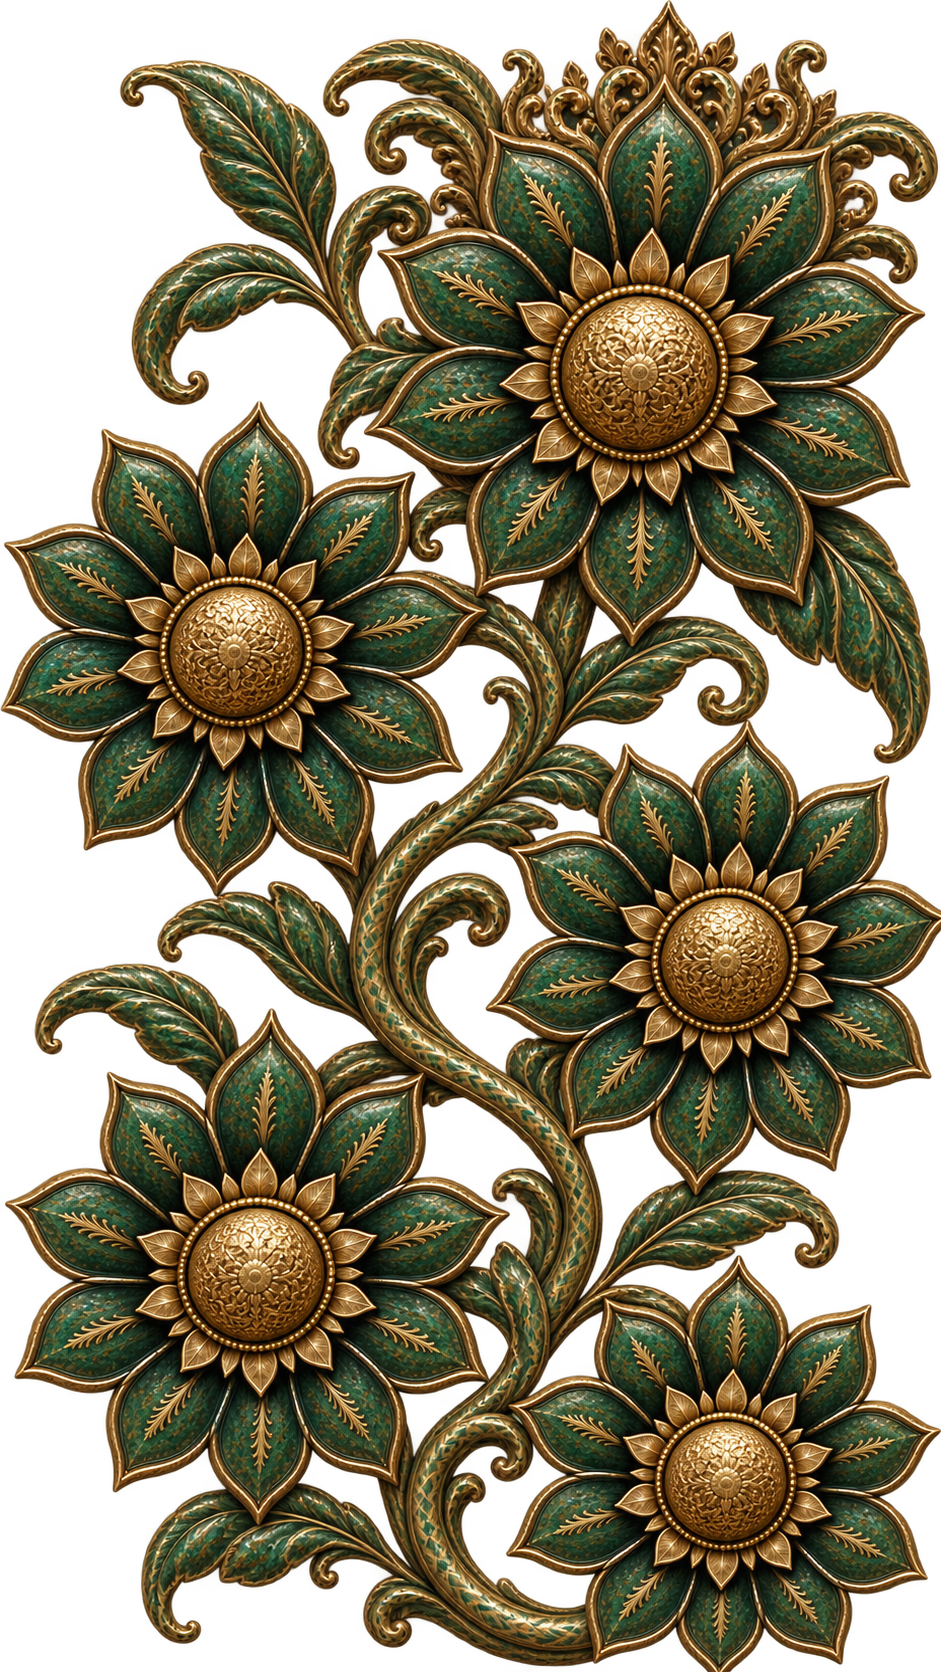
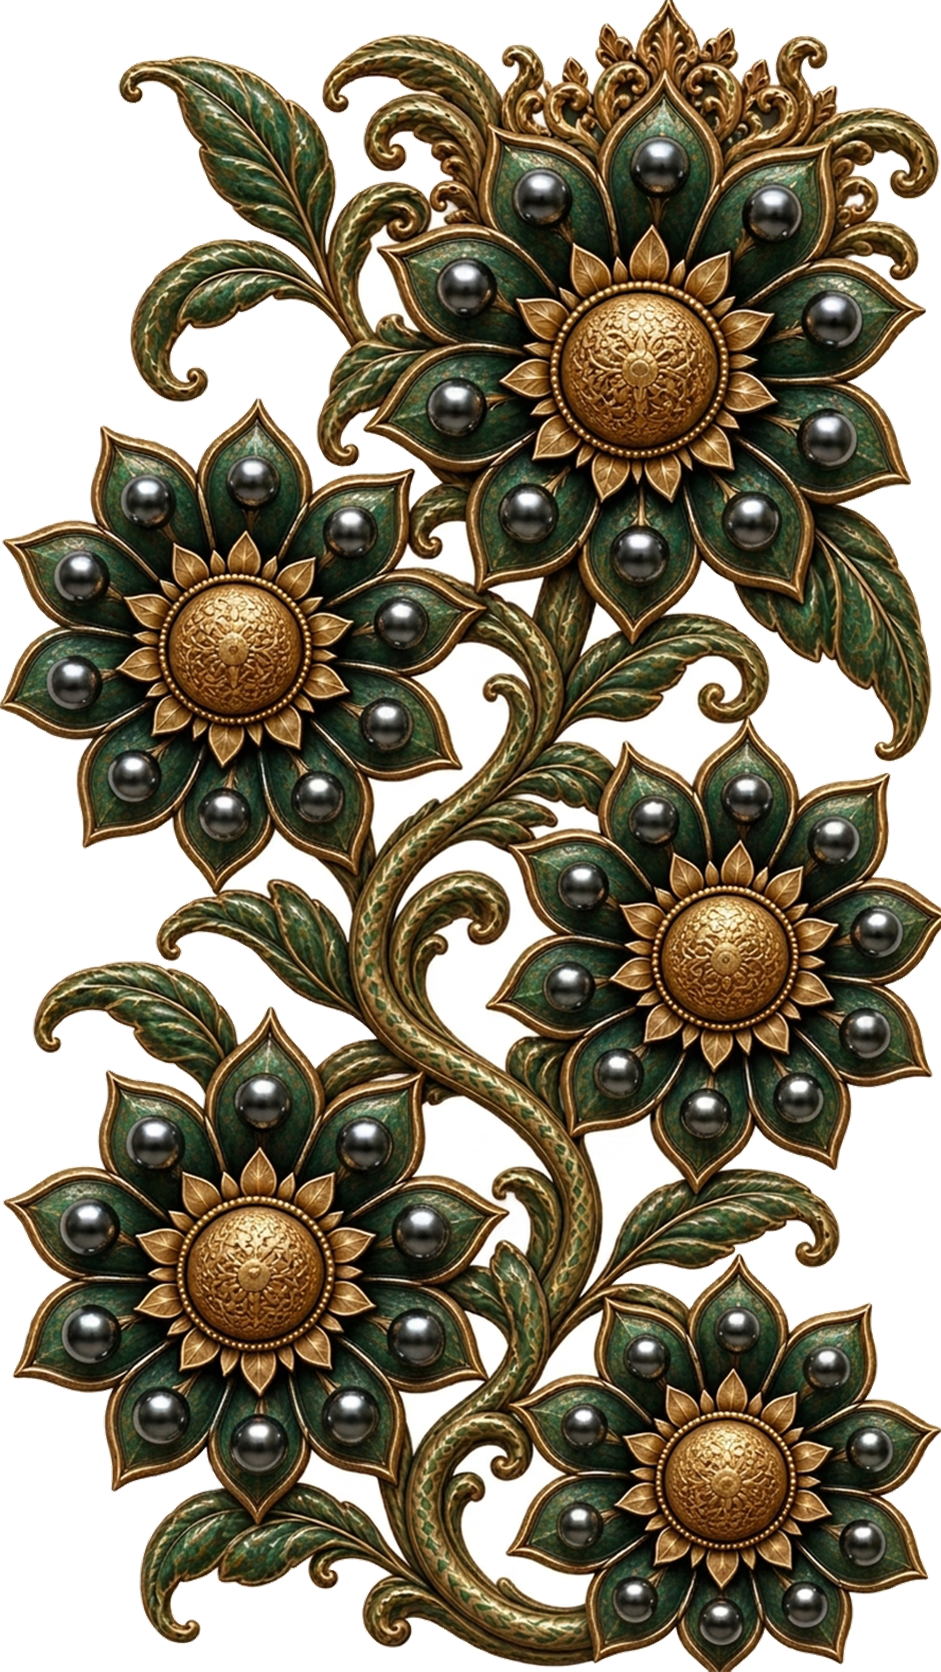
AE.01: il Loto delle perle e' scontornato, per inondazione dal bordo
LA SOGLIA DEL BIANCO E' 235 sul canale minimo, dichiarata nello strumento: il
fondo misurato e' bianco pieno e l'arte ai bordi ha sempre un canale ben sotto.
Resi trasparenti 305.391 pixel su 1.192.464, il 25,6 per cento. L'inondazione
parte dal perimetro e non tocca il bianco chiuso dentro l'arte: i riflessi delle
perle sono bianchi anche loro, e uno scontorno ingenuo li avrebbe bucati.

L'ALFA SEGUE L'INONDAZIONE ANCHE ATTRAVERSO IL RICAMPIONAMENTO. Il LANCZOS ha un
supporto di tre pixel e lasciava code di alfa da 1 a 8 dentro il fondo: la
maschera dell'inondazione ricampionata con supporto corto fa da tetto all'alfa,
e oltre un pixel dal bordo dell'arte il fondo e' trasparente esatto.

LE MISURE: 941 per 1672, RGBA, alfa minimo zero, 395.134 pixel trasparenti, zero
buchi dentro l'arte. IL PERIMETRO NON E' TUTTO TRASPARENTE ED E' UN FATTO
DELL'ARTE: la corona del fiore in cima tocca il bordo del sorgente per disegno,
66 pixel non bianchi che diventano 81 opachi dopo il ricampionamento, e la
guardia pretende la CORRISPONDENZA con l'arte vera del sorgente invece del
perimetro vuoto, con la ragione scritta accanto.

PROVA DEL ROSSO: puntata sul sorgente non scontornato, cade sull'alfa, 238
invece di zero, come l'ordine chiedeva. Iniezione verificata dal file prima di
leggere l'esito.

UNA COSA VISTA GUARDANDO E NON CORRETTA, per la AE.04: dentro l'arte restano
sacche di fondo bianco OPACHE, chiuse fra petali e steli, mai raggiunte
[…]

diff --git a/test/il_loto_scontornato_test.dart b/test/il_loto_scontornato_test.dart
@@ -1,0 +1,149 @@
+import 'dart:io';
+import 'dart:ui' as ui;
+
+import 'package:flutter_test/flutter_test.dart';
+
+/// L'ARTE DEL LOTO E' SCONTORNATA DAVVERO. Ordine AE voce 01.
+///
+/// **Cosa sorveglia.** Il Loto delle perle nasce da un sorgente con fondo bianco
+/// pieno e senza trasparenza: `docs/preview/journal_loto_nuovo-1.png`, che non si
+/// modifica mai sul posto. `tool/scontorna_loto.py` toglie il bianco COLLEGATO AL
+/// BORDO per inondazione, mai il bianco ovunque, perche' i riflessi delle perle
+/// sono bianchi anche loro, e scrive `brand_assets/sentieri/loto.png` a 941 per
+/// 1672. Questa prova apre tutti e due i file e pretende che lo scontorno sia
+/// avvenuto e che non abbia mangiato arte.
+///
+/// **Il perimetro non e' tutto trasparente, ed e' un fatto dell'arte, non un
+/// difetto dello scontorno**: la corona del fiore in cima tocca il bordo del
+/// sorgente per disegno, 66 pixel non bianchi sul perimetro. La grandezza giusta
+/// quindi non e' "perimetro tutto trasparente" ma la CORRISPONDENZA: ogni pixel
+/// opaco sul perimetro dell'arte pronta deve corrispondere ad arte vera nel
+/// sorgente, mai a fondo bianco sopravvissuto.
+void main() {
+  const arte = 'brand_assets/sentieri/loto.png';
+  const sorgente = 'docs/preview/journal_loto_nuovo-1.png';
+
+  /// La soglia del bianco, la stessa dichiarata nello strumento: un pixel del
+  /// sorgente e' fondo quando il suo canale minimo sta sopra questo valore.
+  const sogliaDelBianco = 235;
+
+  Future<(int, int, List<int>)> apri(String file) async {
+    final byte = await File(file).readAsBytes();
+    final codice = await ui.instantiateImageCodec(byte);
+    final immagine = (await codice.getNextFrame()).image;
+    final dati = (await immagine.toByteData(format: ui.ImageByteFormat.rawRgba))!
+        .buffer
+        .asUint8List();
+    return (immagine.width, immagine.height, dati);
+  }
+
+  testWidgets('lo scontorno e\' avvenuto e non ha mangiato arte',
+      (tester) async {
+    // **DENTRO runAsync**, perche' il codec completa sul tempo vero.
+    await tester.runAsync(() async {
+      final (w, h, px) = await apri(arte);
+
+      // **L'ALFA MINIMO PER PRIMO**: e' la firma dello scontorno. Il sorgente ha
+      // alfa minimo 238, l'arte pronta deve avere pixel del tutto trasparenti.
+      var alfaMinimo = 255;
+      for (var i = 3; i < px.length; i += 4) {
+        if (px[i] < alfaMinimo) alfaMinimo = px[i];
+      }
+      expect(alfaMinimo, 0,
+          reason: 'l\'alfa minimo e\' $alfaMinimo invece di zero: questo file '
+              'non e\' stato scontornato, e\' ancora il fondo pieno');
+
+      expect((w, h), (941, 1672),
+          reason: 'l\'arte pronta misura $w per $h invece di 941 per 1672');
+
+      final (sw, sh, sp) = await apri(sorgente);
+      // **LA CORRISPONDENZA TOLLERA UN PIXEL DI VICINATO nel sorgente**, e non
+      // e' una soglia allentata: e' il supporto del ricampionamento. Un pixel
+      // dell'arte pronta nasce da un intorno di pixel del sorgente, quindi sul
+      // bordo di un tratto un pixel con alfa parziale puo' mappare, arrotondando,
+      // sul pixel bianco accanto al tratto. Fondo "vero" e' un intorno TUTTO
+      // bianco; arte "vera" e' un intorno che di bianco non ha niente.
+      bool intornoTuttoBianco(int x, int y) {
+        final sx = (x * sw / w).round().clamp(0, sw - 1);
+        final sy = (y * sh / h).round().clamp(0, sh - 1);
+        for (var dy = -1; dy <= 1; dy++) {
+          for (var dx = -1; dx <= 1; dx++) {
+            final nx = (sx + dx).clamp(0, sw - 1);
+            final ny = (sy + dy).clamp(0, sh - 1);
+            final i = (ny * sw + nx) * 4;
+            final minimo = [sp[i], sp[i + 1], sp[i + 2]]
+                .reduce((a, b) => a < b ? a : b);
+            if (minimo < sogliaDelBianco) return false;
+          }
+        }
+        return true;
+      }
+
+      bool intornoTuttoArte(int x, int y) {
+        final sx = (x * sw / w).round().clamp(0, sw - 1);
+        final sy = (y * sh / h).round().clamp(0, sh - 1);
+        for (var dy = -1; dy <= 1; dy++) {
+          for (var dx = -1; dx <= 1; dx++) {
+            final nx = (sx + dx).clamp(0, sw - 1);
+            final ny = (sy + dy).clamp(0, sh - 1);
+            final i = (ny * sw + nx) * 4;
+            final minimo = [sp[i], sp[i + 1], sp[i + 2]]
+                .reduce((a, b) => a < b ? a : b);
+            if (minimo >= sogliaDelBianco) return false;
+          }
+        }
+        return true;
+      }
+
+      // **IL PERIMETRO: ogni pixel opaco corrisponde ad arte vera.**
+      var opachiSulPerimetro = 0;
+      final fughe = <String>[];
+      void perimetro(int x, int y) {
+        final a = px[(y * w + x) * 4 + 3];
+        if (a == 0) return;
+        opachiSulPerimetro++;
+        if (intornoTuttoBianco(x, y) && fughe.length < 5) {
+          fughe.add('($x,$y) alfa $a su fondo bianco del sorgente');
+        }
+      }
+
+      for (var x = 0; x < w; x++) {
+        perimetro(x, 0);
+        perimetro(x, h - 1);
+      }
+      for (var y = 1; y < h - 1; y++) {
+        perimetro(0, y);
+        perimetro(w - 1, y);
+      }
+      // ignore: avoid_print
+      print('ORDINE AE VOCE 01: perimetro opaco $opachiSulPerimetro pixel, '
+          'tutti su arte vera: ${fughe.isEmpty}');
+      expect(fughe, isEmpty,
+          reason: 'sul perimetro c\'e\' fondo bianco sopravvissuto allo '
+              'scontorno: ${fughe.join(" | ")}');
+
+      // **NESSUN BUCO DENTRO L'ARTE**: ogni pixel del tutto trasparente deve
+      // corrispondere a fondo bianco del sorgente, mai ad arte. E' il presidio
+      // contro lo scontorno ingenuo che buca i riflessi.
+      var trasparenti = 0;
+      final buchi = <String>[];
+      for (var p = 0; p < w * h; p++) {
+        if (px[p * 4 + 3] != 0) continue;
+        trasparenti++;
+        final x = p % w, y = p ~/ w;
+        if (intornoTuttoArte(x, y) && buchi.length < 5) {
+          buchi.add('($x,$y)');
+        }
+      }
+      // ignore: avoid_print
+      print('ORDINE AE VOCE 01: pixel trasparenti $trasparenti, buchi su arte '
+          'vera: ${buchi.length}');
+      expect(trasparenti, greaterThan(0),
+          reason: 'zero pixel trasparenti: la prova starebbe guardando un file '
+              'non scontornato senza accorgersene');
+      expect(buchi, isEmpty,
+          reason: 'lo scontorno ha bucato l\'arte in questi punti: '
+              '${buchi.join(" | ")}');
+    });
+  });
+}

diff --git a/tool/scontorna_loto.py b/tool/scontorna_loto.py
@@ -1,0 +1,136 @@
+# LO SCONTORNO DEL LOTO DELLE PERLE. Ordine AE voce 01.
+#
+# Dal sorgente di Mauro (docs/preview/journal_loto_nuovo-1.png, che NON si
+# modifica mai sul posto) si produce l'arte pronta: si toglie il bianco
+# COLLEGATO AL BORDO per inondazione, mai il bianco ovunque, perche' i riflessi
+# delle perle sono bianchi anche loro e uno scontorno ingenuo li bucherebbe.
+# Poi si ridimensiona a 941 per 1672 e si scrive su
+# brand_assets/sentieri/loto.png.
+#
+# LA SOGLIA DEL BIANCO: un pixel partecipa all'inondazione quando il suo canale
+# MINIMO sta sopra 235. Il fondo misurato e' bianco pieno (255,255,255) e il
+# bordo dell'arte scende sotto in pochi pixel di antialias: 235 prende il fondo
+# e la sfumatura di transizione senza mordere l'arte, che ai bordi e' oro o
+# verde, cioe' con almeno un canale ben sotto.
+#
+# Si lancia a mano:  python tool/scontorna_loto.py
+from collections import deque
+
+from PIL import Image
+
+SORGENTE = 'docs/preview/journal_loto_nuovo-1.png'
+DESTINAZIONE = 'brand_assets/sentieri/loto.png'
+SOGLIA = 235
+MISURA_FINALE = (941, 1672)
+
+im = Image.open(SORGENTE).convert('RGBA')
+w, h = im.size
+px = bytearray(im.tobytes())
+
+def bianco(p):
+    i = p * 4
+    return min(px[i], px[i + 1], px[i + 2]) >= SOGLIA
+
+# L'INONDAZIONE, da tutto il perimetro.
+visto = bytearray(w * h)
+coda = deque()
+for x in range(w):
+    for y in (0, h - 1):
+        p = y * w + x
+        if bianco(p) and not visto[p]:
+            visto[p] = 1
+            coda.append(p)
+for y in range(h):
+    for x in (0, w - 1):
+        p = y * w + x
+        if bianco(p) and not visto[p]:
+            visto[p] = 1
+            coda.append(p)
+resi = 0
+while coda:
+    p = coda.popleft()
+    px[p * 4 + 3] = 0
+    resi += 1
+    x, y = p % w, p // w
+    for dx, dy in ((1, 0), (-1, 0), (0, 1), (0, -1)):
+        nx, ny = x + dx, y + dy
+        if 0 <= nx < w and 0 <= ny < h:
+            n = ny * w + nx
+            if not visto[n] and bianco(n):
+                visto[n] = 1
+                coda.append(n)
+
+print(f'soglia {SOGLIA}: pixel resi trasparenti {resi} su {w*h} '
+      f'({100*resi/(w*h):.1f} per cento)')
+
+pronta = Image.frombytes('RGBA', (w, h), bytes(px))
+pronta = pronta.resize(MISURA_FINALE, Image.LANCZOS)
+
+# **L'ALFA SEGUE L'INONDAZIONE ANCHE ATTRAVERSO IL RICAMPIONAMENTO.** Il
+# ricampionamento di qualita' (LANCZOS) ha un supporto di tre pixel e lascia
+# code di alfa da 1 a 8 fino a tre pixel dentro il fondo: invisibili a occhio,
+# ma sono fondo con alfa non nullo, e la guardia le troverebbe. La maschera
+# dell'inondazione si ricampiona con supporto CORTO (bilineare, un pixel) e
+# l'alfa finale non puo' superarla: cosi' oltre un pixel dal bordo dell'arte il
+# fondo e' trasparente esatto, e la sfumatura del bordo resta.
+maschera = Image.frombytes(
+    'L', (w, h),
+    bytes(0 if px[q * 4 + 3] == 0 else 255 for q in range(w * h)))
+maschera = maschera.resize(MISURA_FINALE, Image.BILINEAR)
+fp = bytearray(pronta.tobytes())
+mp = maschera.tobytes()
+for q in range(MISURA_FINALE[0] * MISURA_FINALE[1]):
+    if fp[q * 4 + 3] > mp[q]:
+        fp[q * 4 + 3] = mp[q]
+pronta = Image.frombytes('RGBA', MISURA_FINALE, bytes(fp))
+pronta.save(DESTINAZIONE)
+print(f'scritto {DESTINAZIONE} a {MISURA_FINALE[0]}x{MISURA_FINALE[1]}')
+
+# LE MISURE DELLA VOCE, sul file scritto.
+finale = Image.open(DESTINAZIONE).convert('RGBA')
+fw, fh = finale.size
+fp = finale.tobytes()
+alfa_min = min(fp[i] for i in range(3, len(fp), 4))
+perimetro_opaco = 0
+for x in range(fw):
+    for y in (0, fh - 1):
+        if fp[(y * fw + x) * 4 + 3] > 0:
+            perimetro_opaco += 1
+for y in range(fh):
+    for x in (0, fw - 1):
+        if fp[(y * fw + x) * 4 + 3] > 0:
+            perimetro_opaco += 1
+
+# I BUCHI: pixel del tutto trasparenti NON collegati al bordo. Il fondo tolto
+# per inondazione e' collegato al bordo per costruzione, quindi tutto cio' che
+# resta trasparente e staccato e' un buco dentro l'arte.
+visto2 = bytearray(fw * fh)
+coda2 = deque()
+def trasparente(p):
+    return fp[p * 4 + 3] == 0
+for x in range(fw):
+    for y in (0, fh - 1):
+        p = y * fw + x
+        if trasparente(p) and not visto2[p]:
+            visto2[p] = 1
+            coda2.append(p)
+for y in range(fh):
+    for x in (0, fw - 1):
+        p = y * fw + x
+        if trasparente(p) and not visto2[p]:
+            visto2[p] = 1
+            coda2.append(p)
+while coda2:
+    p = coda2.popleft()
+    x, y = p % fw, p // fw
+    for dx, dy in ((1, 0), (-1, 0), (0, 1), (0, -1)):
+        nx, ny = x + dx, y + dy
+        if 0 <= nx < fw and 0 <= ny < fh:
+            n = ny * fw + nx
+            if not visto2[n] and trasparente(n):
+                visto2[n] = 1
+                coda2.append(n)
+buchi = sum(1 for p in range(fw * fh) if trasparente(p) and not visto2[p])
+
+print(f'alfa minimo {alfa_min}, perimetro opaco {perimetro_opaco} pixel, '
+      f'buchi interni {buchi} pixel')

diff --git a/docs/ordini/ORDINE_AE_MANIFESTO.md b/docs/ordini/ORDINE_AE_MANIFESTO.md
@@ -42,7 +42,7 @@ marcatori in fondo si contano sulle righe.
 
 ## Le cinque voci
 
-- **AE.01** Lo scontorno e la misura giusta — APERTA
+- **AE.01** Lo scontorno e la misura giusta — CHIUSA
 - **AE.02** Le perle si trovano, i pallini si generano, gli ancoraggi si rifanno — APERTA
 - **AE.03** Le forme diventano le perle — APERTA
 - **AE.04** Le anteprime, e i cerchi sopra l'arte per gli occhi di Mauro — APERTA
@@ -51,7 +51,7 @@ marcatori in fondo si contano sulle righe.
 ## I marcatori, contati sulle righe
 
 VOCI_TOTALI: 5
-VOCI_APERTE: 5
-VOCI_CHIUSE: 0
+VOCI_APERTE: 4
+VOCI_CHIUSE: 1
 VOCI_FERMATE_SU_PREMESSA_FALSA: 0
 VOCI_FERMATE_IN_ATTESA_DI_DECISIONE: 0
